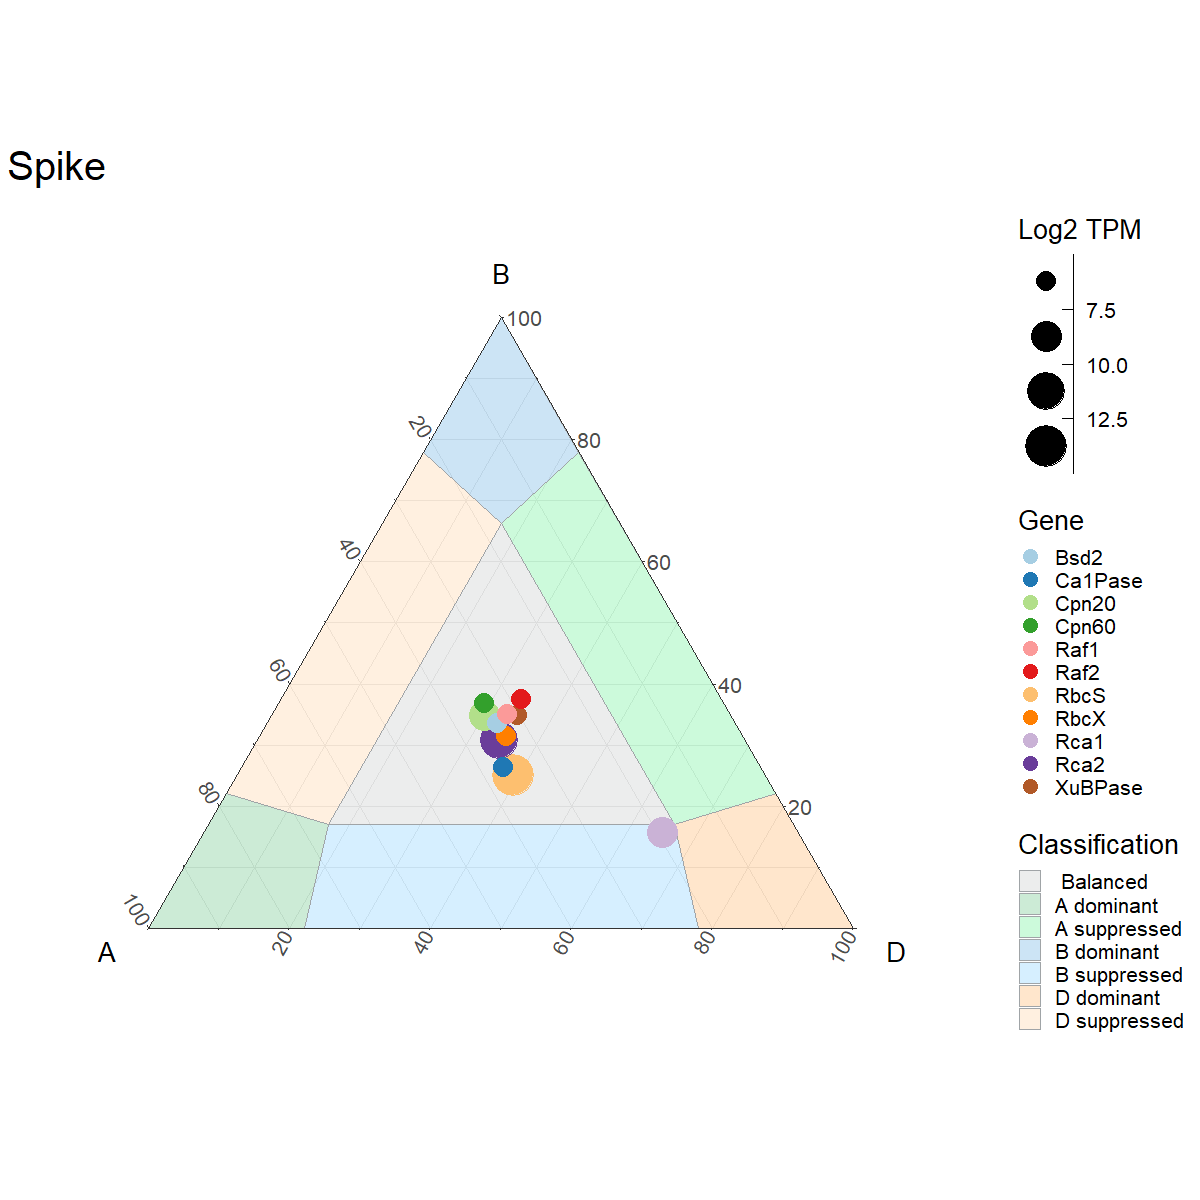
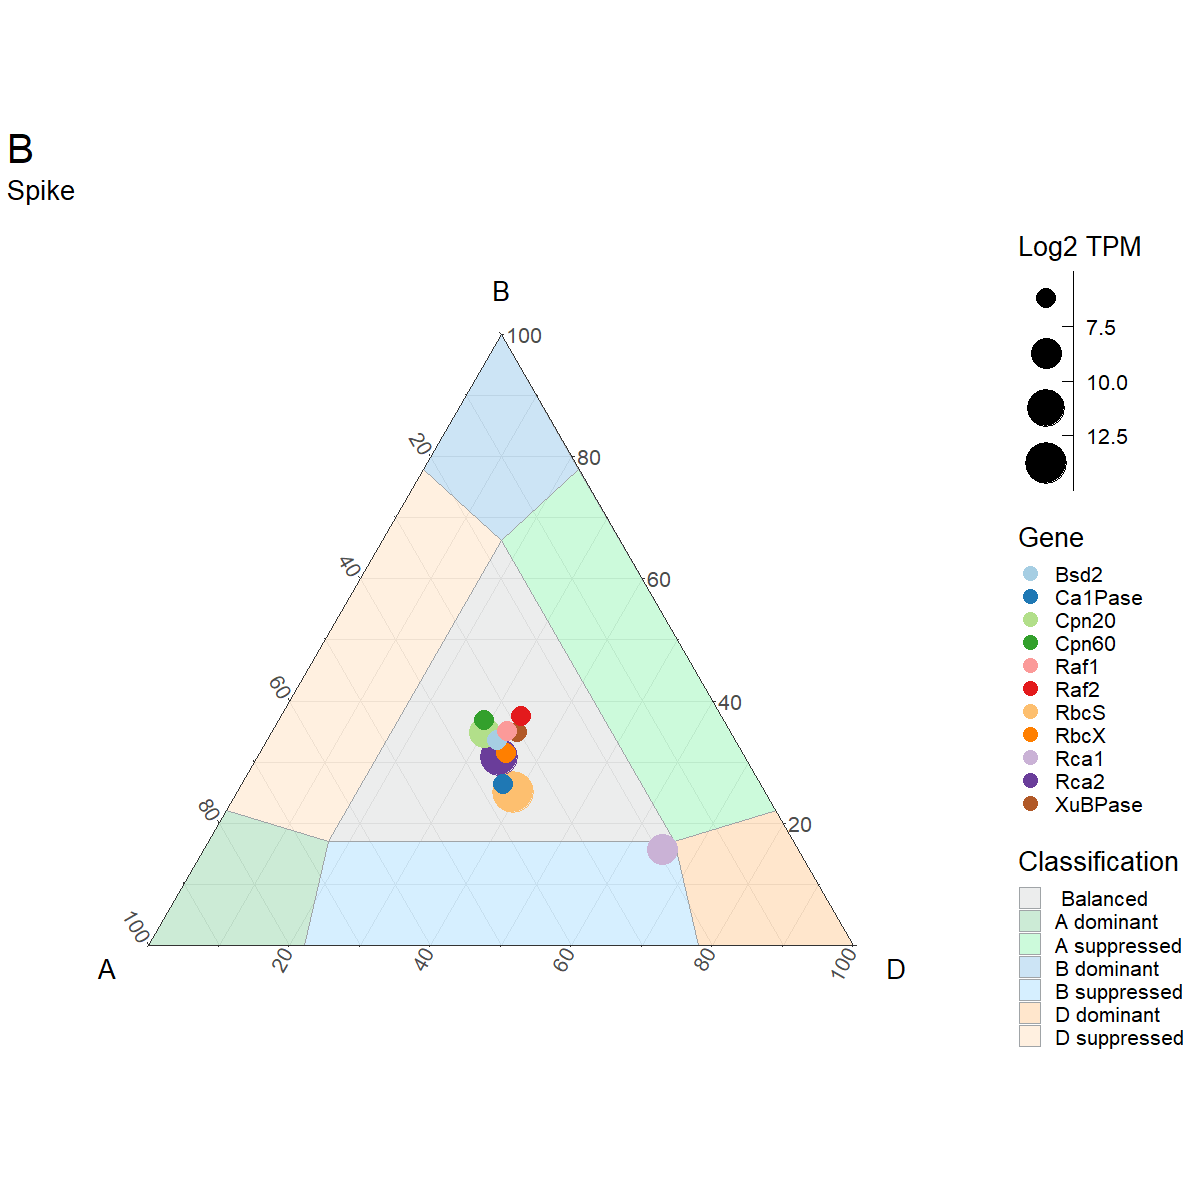
Changed plot titles

diff --git a/Wheat-Rubiscosome-Expression-Balance-Report.md b/Wheat-Rubiscosome-Expression-Balance-Report.md
@@ -394,7 +394,8 @@ LeavesShoots <- ggtern(data=df,aes(A,B,D)) +
   guides(colour = guide_legend(override.aes = list(size=5))) +
   theme(plot.title = element_text(size = 30),
         text = element_text(size=20))+
-  labs(title="Leaves and Shoots",
+  labs(title = "A",
+       subtitle="Leaves and Shoots",
        fill = "Classification",
        T="B",
        L="A",
@@ -424,7 +425,8 @@ Spike <- ggtern(data=df,aes(A,B,D)) +
   guides(colour = guide_legend(override.aes = list(size=5))) +
   theme(plot.title = element_text(size = 30),
         text = element_text(size=20))+
-  labs(title="Spike",
+  labs(title="B",
+       subtitle="Spike",
        fill = "Classification",
        T="B",
        L="A",
@@ -491,7 +493,7 @@ HeatStressRca <- ggtern(data=df,aes(A,B,D)) +
          shape = guide_legend(override.aes = list(size=5))) +
   theme(plot.title = element_text(size = 30),
         text = element_text(size=20))+
-  labs(title="Rca Heat Stress",
+  labs(subtitle="Heat Stress",
        fill = "Classification",
        T="B",
        L="A",
